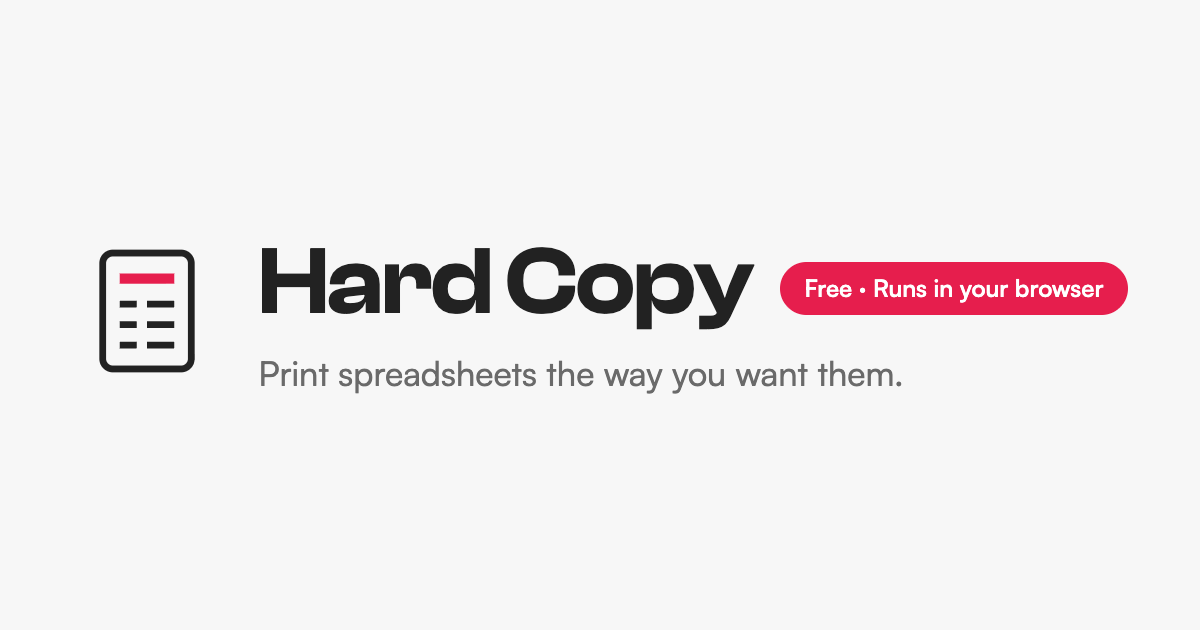
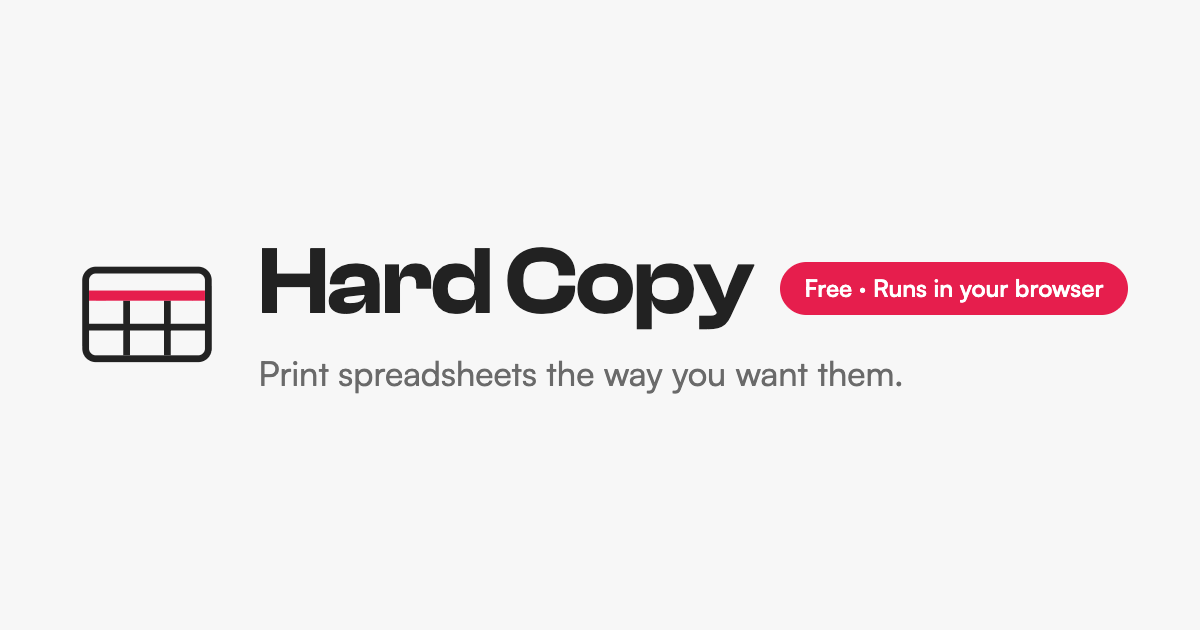
Use the landscape sheet monogram

Changed region(s): [[0.0617, 0.3921, 0.185, 0.6032]]

diff --git a/src/App.svelte b/src/App.svelte
@@ -52,12 +52,12 @@
 <main>
   <header class="masthead rise" style="--i: 0">
     <div class="brand">
-      <!-- Placeholder monogram: a printed sheet with a coral header row. -->
+      <!-- Monogram: a landscape sheet with a coral header row and a two-by-two grid, on Letter Rip's envelope footprint. -->
       <svg class="monogram" viewBox="0 0 44 44" fill="none" stroke="currentColor" stroke-width="2"
         stroke-linejoin="round" aria-hidden="true">
-        <rect x="9" y="5" width="26" height="34" rx="3" />
-        <path class="accent" d="M14 12.5h16" />
-        <path d="M14 20h5M22 20h8M14 26h5M22 26h8M14 32h5M22 32h8" />
+        <rect x="4" y="10" width="36" height="26" rx="3" />
+        <path class="accent" d="M5 17.5h34" />
+        <path d="M16 19v16M28 19v16M5 26.75h34" />
       </svg>
       <div class="brand-text">
         <h1>Hard Copy</h1>

diff --git a/docs/og-source.html b/docs/og-source.html
@@ -16,6 +16,6 @@ h1{margin:0;font:600 96px/1 'Clash Display';letter-spacing:-0.015em;white-space:
 p{margin:20px 0 0;font-size:34px;line-height:1.3;color:#6a6a6a;font-weight:450}
 </style></head><body><div class="wrap">
 <svg viewBox="0 0 44 44" fill="none" stroke="#222" stroke-width="2" stroke-linejoin="round">
-<rect x="9" y="5" width="26" height="34" rx="3"/><path d="M14 20h5M22 20h8M14 26h5M22 26h8M14 32h5M22 32h8"/><path d="M14 12.5h16" stroke="#e61e4d" stroke-width="3"/></svg>
+<rect x="4" y="10" width="36" height="26" rx="3"/><path d="M16 19v16M28 19v16M5 26.75h34"/><path d="M5 17.5h34" stroke="#e61e4d" stroke-width="3"/></svg>
 <div><h1>Hard Copy<span class="pill">Free · Runs in your browser</span></h1><p>Print spreadsheets the way you want them.</p></div>
 </div></body></html>
